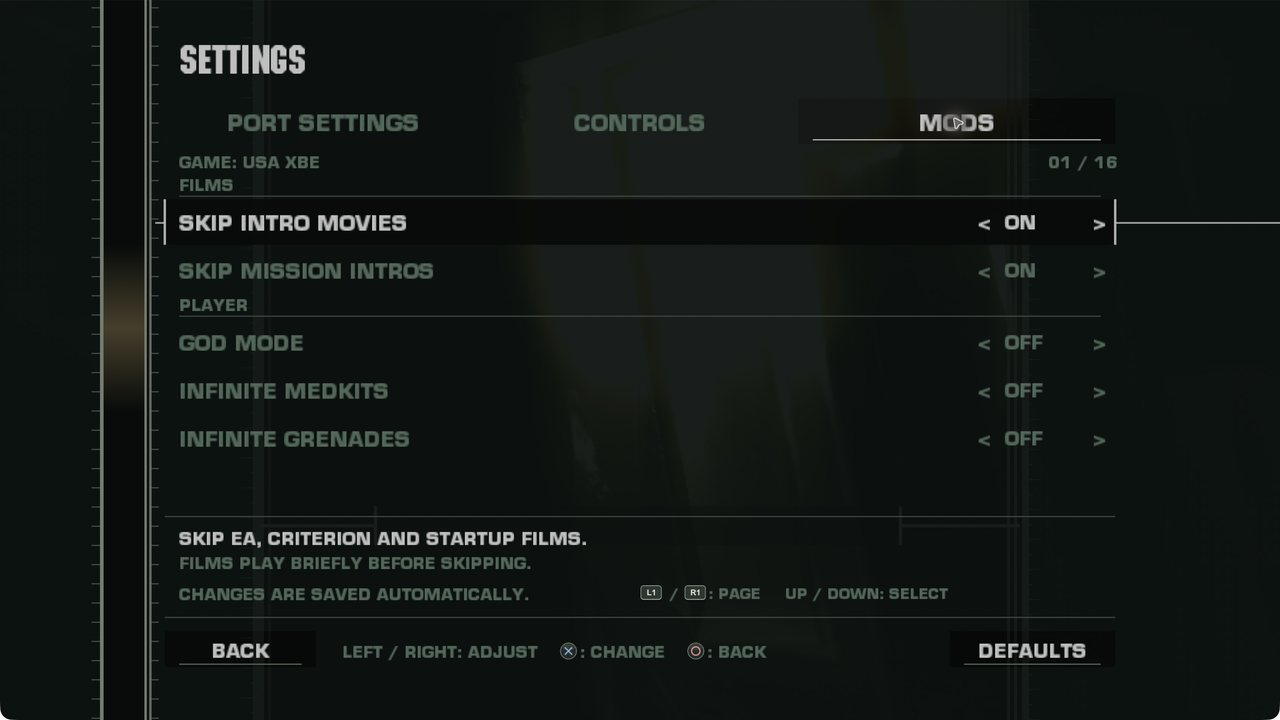
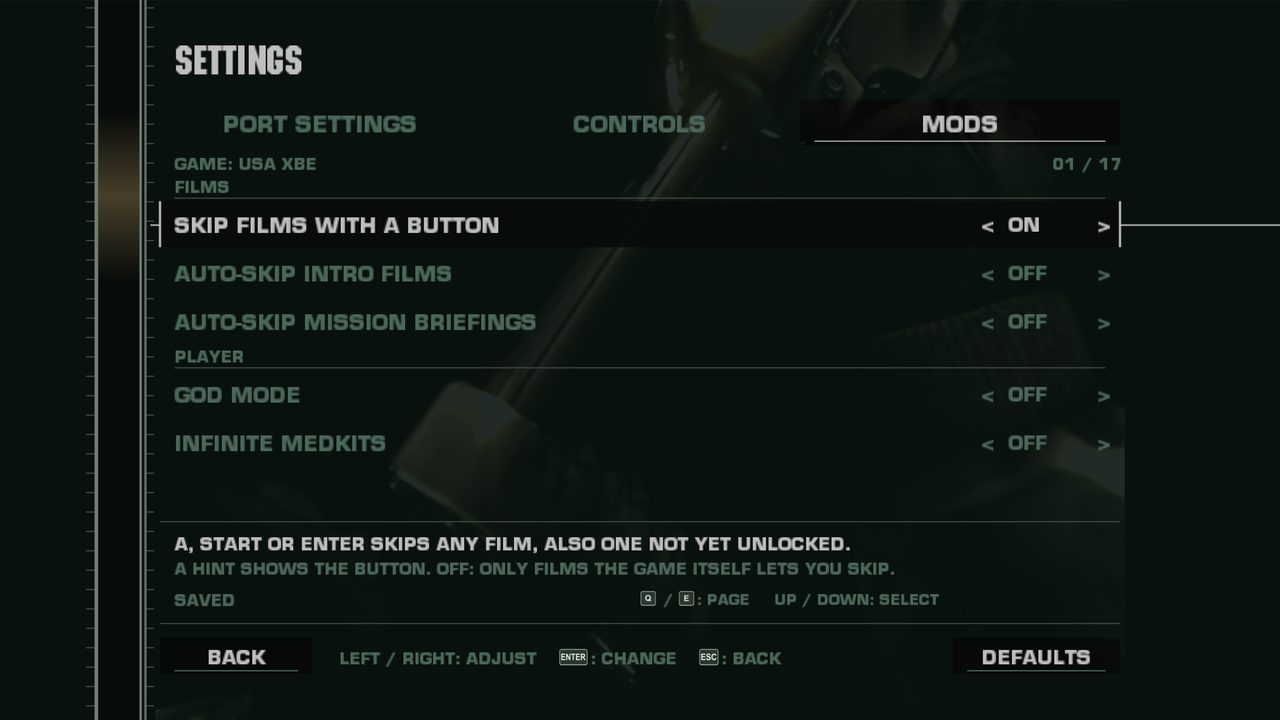
Release BLACK 0.6.0 with the game's brightness, Home button and film skipping

diff --git a/docs/releases/v0.6.0.md b/docs/releases/v0.6.0.md
@@ -1,0 +1,85 @@
+# BLACK 0.6.0: the game's brightness, Home button and film skipping
+
+An experimental native macOS update of **BLACK for Original Xbox** for Apple
+Silicon. Bring your own supported USA or European disc image; no game data is
+included.
+
+## New
+
+- **The game's own brightness.** BLACK builds a gamma ramp for the Xbox's video
+  output: its brightness curve, the brightness slider in its options and its
+  fades to and from black. On the Mac that ramp never reached the screen, so the
+  picture was duller and the fades were missing. The presenter now applies it
+  as the last step, as the Xbox's video output does.
+- **Home / Xbox Guide / PS button.** A tap opens or closes the settings. Hold it
+  for 1.5 seconds for a quit page in the style of the game's pause menu:
+  **Continue**, **Quit to Main Menu** (in a mission: the game's pause menu and
+  its own confirmation, so checkpoint progress is lost only after YES there) and
+  **Quit Game**. While BLACK has focus, macOS gives the button to the game
+  instead of Game Center and hands it back when you switch away.
+- **Quit Game** in the settings footer and on Port Settings opens the same page.
+- **Skip Films with a Button** (Mods → Films, on by default): A, Start or Enter
+  skips any film, also the logos and films the game only lets you skip after
+  that mission. A hint shows the button after 2.5 seconds; looping menu
+  backgrounds stay. The automatic options are renamed **Auto-Skip Intro Films**
+  and **Auto-Skip Mission Briefings**; your choices are kept.
+
+## Fixed
+
+- **A grid flickering in blur and glow** at render scales above 1×, most visible
+  on reloads against a bright background. The game's small glow and blur buffers
+  are now averaged over one Xbox texel before its blur samples them.
+- **The Dock.** A click on the Dock icon brings BLACK back, and Quit in the Dock
+  menu, log out and restart close it normally instead of being ignored.
+- **PRESS START** keeps the game's own words in its language instead of a
+  button icon that read as OPTIONS on a DualSense.
+
+Everything from 0.5.5 and earlier remains: steady frame rate in later areas,
+bloom and sun shafts, the title screen text, HD texture alpha, controller
+hotplug and the HD pack check. No settings or save migration is required.
+
+## Install or update
+
+Download **`BLACK-0.6.0-macos-arm64.dmg`**, drag **BLACK.app** to **Applications**
+and replace the old app. Existing Library game data, settings and saves remain
+in place.
+
+**Requirements:** Apple Silicon and **macOS 27 or later**. The app is **ad-hoc
+signed, not notarized**. If macOS blocks it, check the source and use
+**System Settings → Privacy & Security → Open Anyway**.
+
+## Validation and limits
+
+On **Apple M1 Pro / macOS 27.0.1** the user compared the brightness by eye in
+the menus and missions 1 and 8 ("very close to the original on the Xbox"), moved
+the brightness slider to both ends, saw the fades on loading and death, skipped
+films with the hint on a DualSense, no longer saw the blur grid on reloads, and
+used Home with Game Center staying closed. With the release app the user
+brought the game back with a Dock click and closed it from the Dock menu. A
+scripted mission run took Quit to Main Menu through the game's pause menu to
+its own confirmation. **115 CTest
+checks** and **49 Python tests** passed. The final DMG was checked read-only in
+English and Russian with isolated data and system-only PATH: both opened
+settings and quit normally, and source game files and user preferences kept
+their hashes. The matching source archive was verified without game or private
+data.
+
+Not checked: the Home button on controllers other than the DualSense, a Dock
+click on a minimized window, log out or restart with the game open (they send
+the same quit event as the Dock menu), and a full playthrough with the new
+brightness. Other
+limits of 0.5.5 still apply.
+[Validation](https://github.com/secretpray/Black/blob/v0.6.0/docs/VALIDATION.md).
+
+## Downloads
+
+- **`BLACK-0.6.0-macos-arm64.dmg`** — the app.
+- **`optional-library-sources.tar.xz`** — matching runtime/game-host/DSP sources,
+  local overlays, library source archives and relinking recipes.
+- **`SHA256SUMS`** — download integrity checks.
+
+No ISO, original XBE, game assets, generated game C, texture pack, private saves
+or session logs are included. [Acknowledgements](https://github.com/secretpray/Black#acknowledgements).
+
+This non-commercial fan project is unaffiliated with Electronic Arts, Criterion
+Games, Microsoft or Apple. Original game content belongs to its owners.

diff --git a/README.md b/README.md
@@ -10,8 +10,12 @@
 > Original Xbox BLACK disc. Please do not request game files or attach them to issues.
 
 > [!NOTE]
-> **0.5.5 is an experimental macOS release.** Later areas of a mission no longer
-> drop to 15-18 fps, and bloom and sun shafts render as on the Xbox. From 0.5.4:
+> **0.6.0 is an experimental macOS release.** The game's own brightness curve,
+> brightness slider and fades now reach the screen. Home / Xbox Guide / PS opens the
+> settings with a tap and a quit page with a hold, without opening Game Center;
+> A, Start or Enter skips any film; the Dock icon brings the game back. From 0.5.5:
+> later areas of a mission no longer drop to 15-18 fps, and bloom and sun shafts
+> render as on the Xbox. From 0.5.4:
 > the title screen shows PRESS START, the copyright line and the logo again.
 > From 0.5.3: HD textures no longer paint the grenade crate black or pickup
 > weapons white. From 0.5.2: controllers can be
@@ -43,11 +47,11 @@ MetalFX. The game content in them belongs to its owners.</sub>
 
 ## Download
 
-**[BLACK 0.5.5 — macOS / Apple Silicon](https://github.com/secretpray/Black/releases/tag/v0.5.5)**
+**[BLACK 0.6.0 — macOS / Apple Silicon](https://github.com/secretpray/Black/releases/tag/v0.6.0)**
 
 | Download | Purpose |
 | --- | --- |
-| `BLACK-0.5.5-macos-arm64.dmg` | App for Apple Silicon and **macOS 27 or later** |
+| `BLACK-0.6.0-macos-arm64.dmg` | App for Apple Silicon and **macOS 27 or later** |
 | `SHA256SUMS` | Optional download integrity check |
 | `optional-library-sources.tar.xz` | Runtime/library sources and build recipes; not needed to play |
 
@@ -94,6 +98,9 @@ PS2 and Xbox 360 files are not supported.
 - At render scales above 1×, the game's small glow and blur buffers are averaged
   over one Xbox texel before its blur samples them, as on the console's
   resolution.
+- **Home / Xbox Guide / PS**: tap for the settings, hold for a quit page in the
+  game's own menu style; macOS keeps Game Center out of the way while BLACK has
+  focus. The Dock icon and Dock **Quit** work as for any Mac app.
 - A panel in the game’s own green-grey menu style, using fonts from your own game.
   The panel has **Port Settings**, **Controls** and **Mods** tabs,
   with device selection first and separate input subpages.
@@ -122,7 +129,7 @@ PS2 and Xbox 360 files are not supported.
 ## Mods
 
 <p align="center">
-  <img src="docs/screenshots/settings-mods.jpg" alt="Settings, Mods page: GAME USA XBE, Films with Skip Intro Movies, and Player with God Mode, Infinite Medkits and Infinite Grenades" width="85%">
+  <img src="docs/screenshots/settings-mods.jpg" alt="Settings, Mods page: GAME USA XBE, Films with Skip Films with a Button on, Auto-Skip Intro Films and Auto-Skip Mission Briefings off, and Player with God Mode and Infinite Medkits" width="85%">
 </p>
 
 The **Mods** page collects cheats and modifications, all **off by default**
@@ -164,7 +171,8 @@ unrecognised executable leaves every mod off.
 
 | Action | Default |
 | --- | --- |
-| Recomp settings | F1 / F10 / Cmd+, / Back + Start |
+| Recomp settings | F1 / F10 / Cmd+, / Back + Start / tap Home, Xbox Guide or PS |
+| Quit page: continue, main menu, quit | Hold Home, Xbox Guide or PS for 1.5 s / settings → Quit Game |
 | Change settings page | Q / E, Tab, LB / RB |
 | Fullscreen / quit | Cmd+Return / Cmd+Q |
 | Move / crouch / walk | W A S D / C / Alt |
@@ -173,6 +181,18 @@ unrecognised executable leaves every mod off.
 | Change weapon | Q / E or mouse wheel |
 | Objectives / pause | Tab / Escape |
 | Game menus | Click / wheel / arrows; Enter confirms, Escape or right mouse goes back |
+
+<table>
+  <tr>
+    <td width="50%"><img src="docs/screenshots/home-quit.jpg" alt="Quit page over a mission, in the style of the game's pause menu: the gold BLACK mark, QUIT, Continue selected, Quit to Main Menu and Quit Game"><br><sub>Hold Home: continue, the game's main menu, or quit.</sub></td>
+    <td width="50%"><img src="docs/screenshots/settings-quit.jpg" alt="Port Settings with Back, Quit Game and Defaults in the footer"><br><sub>Quit Game in the settings footer.</sub></td>
+  </tr>
+</table>
+
+While BLACK has focus, macOS gives Home / Xbox Guide / PS to the game instead of
+Game Center; it is handed back when you switch away. Quit to Main Menu opens the
+game's pause menu and its own confirmation, so checkpoint progress is only lost
+after you answer YES there.
 
 <table>
   <tr>

diff --git a/docs/VALIDATION.md b/docs/VALIDATION.md
@@ -1,7 +1,59 @@
 # Release validation and current limits
 
-Release: **BLACK 0.5.5**, Apple Silicon. Test machine: Apple M1 Pro,
+Release: **BLACK 0.6.0**, Apple Silicon. Test machine: Apple M1 Pro,
 macOS 27.0.1. This is an experimental release, not a complete-game qualification.
+
+## Brightness, Home button and film skipping in 0.6.0
+
+**Gamma ramp.** BLACK builds its ramp at `0x1762B0`:
+`255 · 2.2 · (i/255)^1.2 · tint · (1 + brightness) · fade`, clamped to 255, and
+queues it for the vertical blank, which loads the DAC only while a flip waits
+for it. On this runtime that stops after four flips and the DAC registers are
+plain RAM, so neither the curve nor the slider nor the fades reached the screen.
+`cmake/BlackGameOverlay.cmake` hands each queued ramp to
+`ports/macos/overrides/display_gamma.c`; the presenter applies it last, with
+linear interpolation between entries (`run --gamma off` for A/B). Checked: 77
+tables in a 60-second run (a fade-in in about 30 steps, then r64=106, r128=245);
+frames of the title and logo films with and without the ramp; the slider at
+both ends (r64=149, r128=255 at its top); fades on loading and death. Death
+turns the screen red in the game's own frame, not in the ramp. The user judged
+the picture in missions 1 and 8 as very close to the Xbox.
+
+**Home / Xbox Guide / PS.** A tap toggles the settings, a 1.5-second hold opens
+the quit page (`menu_input.h`, tested). In a mission Quit to Main Menu sends
+START unless the pause menu is up, then calls that page's own `GoToQuitConfirm`
+(`InGameOn.bin`), which opens the game's ConfirmWarning with `QuitLevel` on YES.
+A scripted run (`--test-home-quit`) reached PauseMenu and ConfirmWarning, also
+in the release configuration with the real DSP. While the window has focus each
+controller's Home is set to `GCSystemGestureStateDisabled`; macOS honours that
+only for an app declaring `GCSupportsControllerUserInteraction`, now in
+`BLACK-Info.plist` (a bare executable started by `black.py run` has no
+Info.plist; use `--game-mode`). The user confirmed Game Center no longer opens.
+
+**Dock.** The host pumps events itself and never ran
+`-[NSApplication finishLaunching]`, so reopen and quit Apple events went
+unanswered. It now runs it and handles both: a quit event closed a test run
+with exit code 0, and with the release app the user brought the game back with
+a Dock click and closed it from the Dock menu. A minimized window and log out
+or restart with the game open were not tried.
+
+**Films.** Skip Films with a Button: a press the game does not answer within
+10 polls while the same non-looping film plays requests the game's stop byte
+(`player+0x1B9`). Scripted: the logos, the intro and the next film skipped,
+the looping menu film kept; with the option off nothing is skipped. The hint
+appears after 2.5 seconds (tested). PRESS START keeps the game's text.
+
+**Effect buffers.** At scales above 1× the 64x32, 80x60, 160x120 and 320x240
+glow/blur targets read with linear filtering are averaged over one Xbox texel
+when copied into a texture (`xemu_effect_filter.inc`; the 160x120 depth-as-colour
+target, read with box minification, is untouched; `--effect-filter off` for A/B).
+The user no longer saw the grid on reloads against a bright background.
+
+One unexplained frozen picture occurred once on a second mission start with
+frame capture on; it did not recur without capture or with the new features
+off. **115 CTest checks** and **49 Python tests** passed. The final DMG was
+checked read-only in English and Russian with isolated data and system-only
+PATH; the source archive matched the local sources and pinned upstreams.
 
 ## Frame rate, bloom and sun shafts in 0.5.5
 

diff --git a/docs/BUILD.md b/docs/BUILD.md
@@ -8,7 +8,7 @@ Do not mix TGP's C++ X86Context hooks with their generated C ABI.
 
 Apple Silicon, a current Xcode installation with the Metal toolchain,
 Homebrew, Python 3.11+, and your own supported Original Xbox BLACK disc.
-The distributed 0.5.5 app requires macOS 27+ because of its actual library
+The distributed 0.6.0 app requires macOS 27+ because of its actual library
 build targets. A deployment-target flag alone does not establish older-OS support.
 
 ```sh
@@ -107,12 +107,12 @@ paints Cyrillic over Latin cells. The app does not use it.
 ```sh
 python3 tools/macos/make_icon.py
 python3 tools/macos/package_app.py out/build/macos-metal/black-recomp \
-  out/release/0.5.5/BLACK.app --version 0.5.5
+  out/release/0.6.0/BLACK.app --version 0.6.0
 .venv/macos/bin/python3 -m pip install -r tools/macos/requirements-package.txt
 .venv/macos/bin/python3 tools/macos/styled_dmg.py \
-  out/release/0.5.5/BLACK.app out/release/0.5.5/BLACK-0.5.5-macos-arm64.dmg
-python3 tools/macos/package_sources.py out/release/0.5.5/BLACK.app \
-  out/release/0.5.5/optional-library-sources.tar.xz --version 0.5.5
+  out/release/0.6.0/BLACK.app out/release/0.6.0/BLACK-0.6.0-macos-arm64.dmg
+python3 tools/macos/package_sources.py out/release/0.6.0/BLACK.app \
+  out/release/0.6.0/optional-library-sources.tar.xz --version 0.6.0
 ```
 
 Use an unused output path: packaging refuses to overwrite a prior candidate.

diff --git a/CHANGELOG.md b/CHANGELOG.md
@@ -1,5 +1,25 @@
 # Changelog
 
+## 0.6.0 — 2026-11-08
+
+- **The game's own brightness.** BLACK builds a gamma ramp for the Xbox's video
+  output: its brightness curve, the brightness slider and its fades to and from
+  black. That ramp never reached the screen; the presenter now applies it.
+- **Home / Xbox Guide / PS.** A tap opens or closes the settings. Held for 1.5
+  seconds it opens a quit page in the style of the game's own menus: Continue,
+  Quit to Main Menu (in a mission, through the game's own confirmation) or Quit
+  Game. While BLACK has focus the button no longer opens Game Center.
+- **Quit Game** in the settings footer and on Port Settings.
+- **Skip Films with a Button** (Mods, on by default): A, Start or Enter skips any
+  film, also the logos, with a hint after 2.5 seconds. The automatic options are
+  now Auto-Skip Intro Films and Auto-Skip Mission Briefings.
+- **Effect buffers at higher render scales.** The game's glow and blur buffers
+  are averaged over one Xbox texel, so reloads on bright backgrounds no longer
+  flicker as a grid.
+- **Dock.** A click on the Dock icon brings BLACK back; Quit in the Dock menu,
+  log out and restart close it normally.
+- **PRESS START** keeps the game's own words instead of a button icon.
+
 ## 0.5.5 — 2026-11-07
 
 - **Frame rate in later areas.** After the level streamed in its next part the
